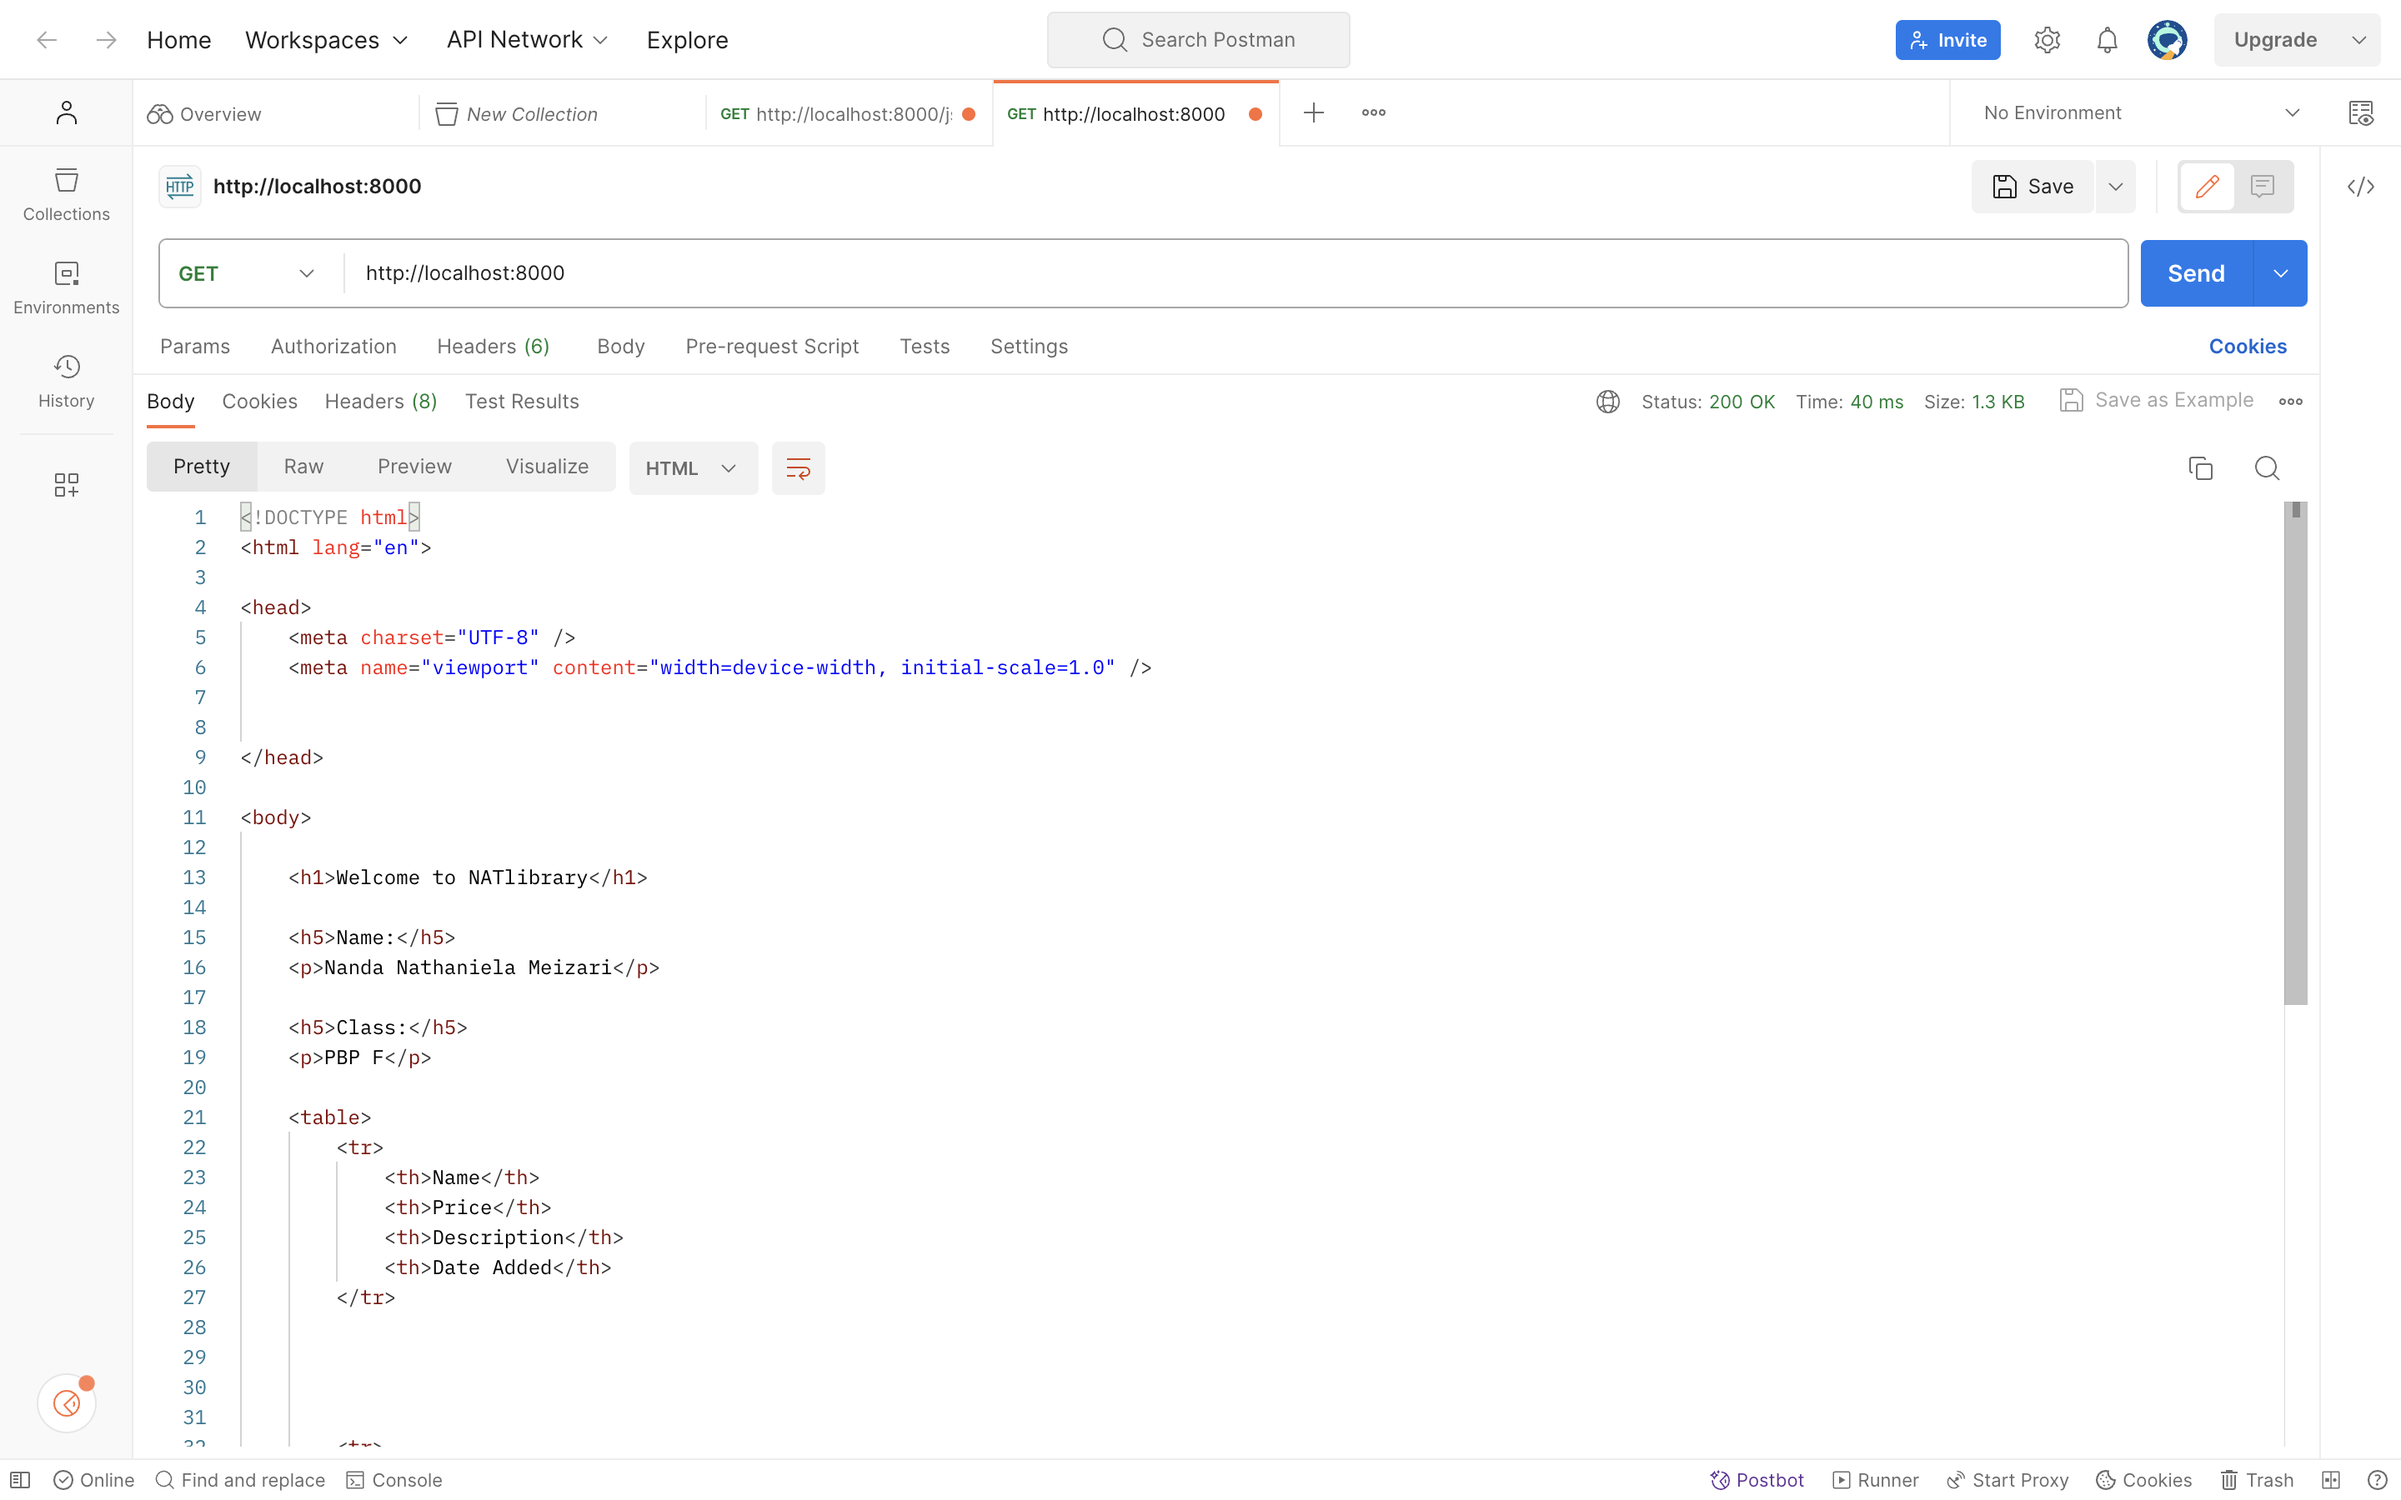
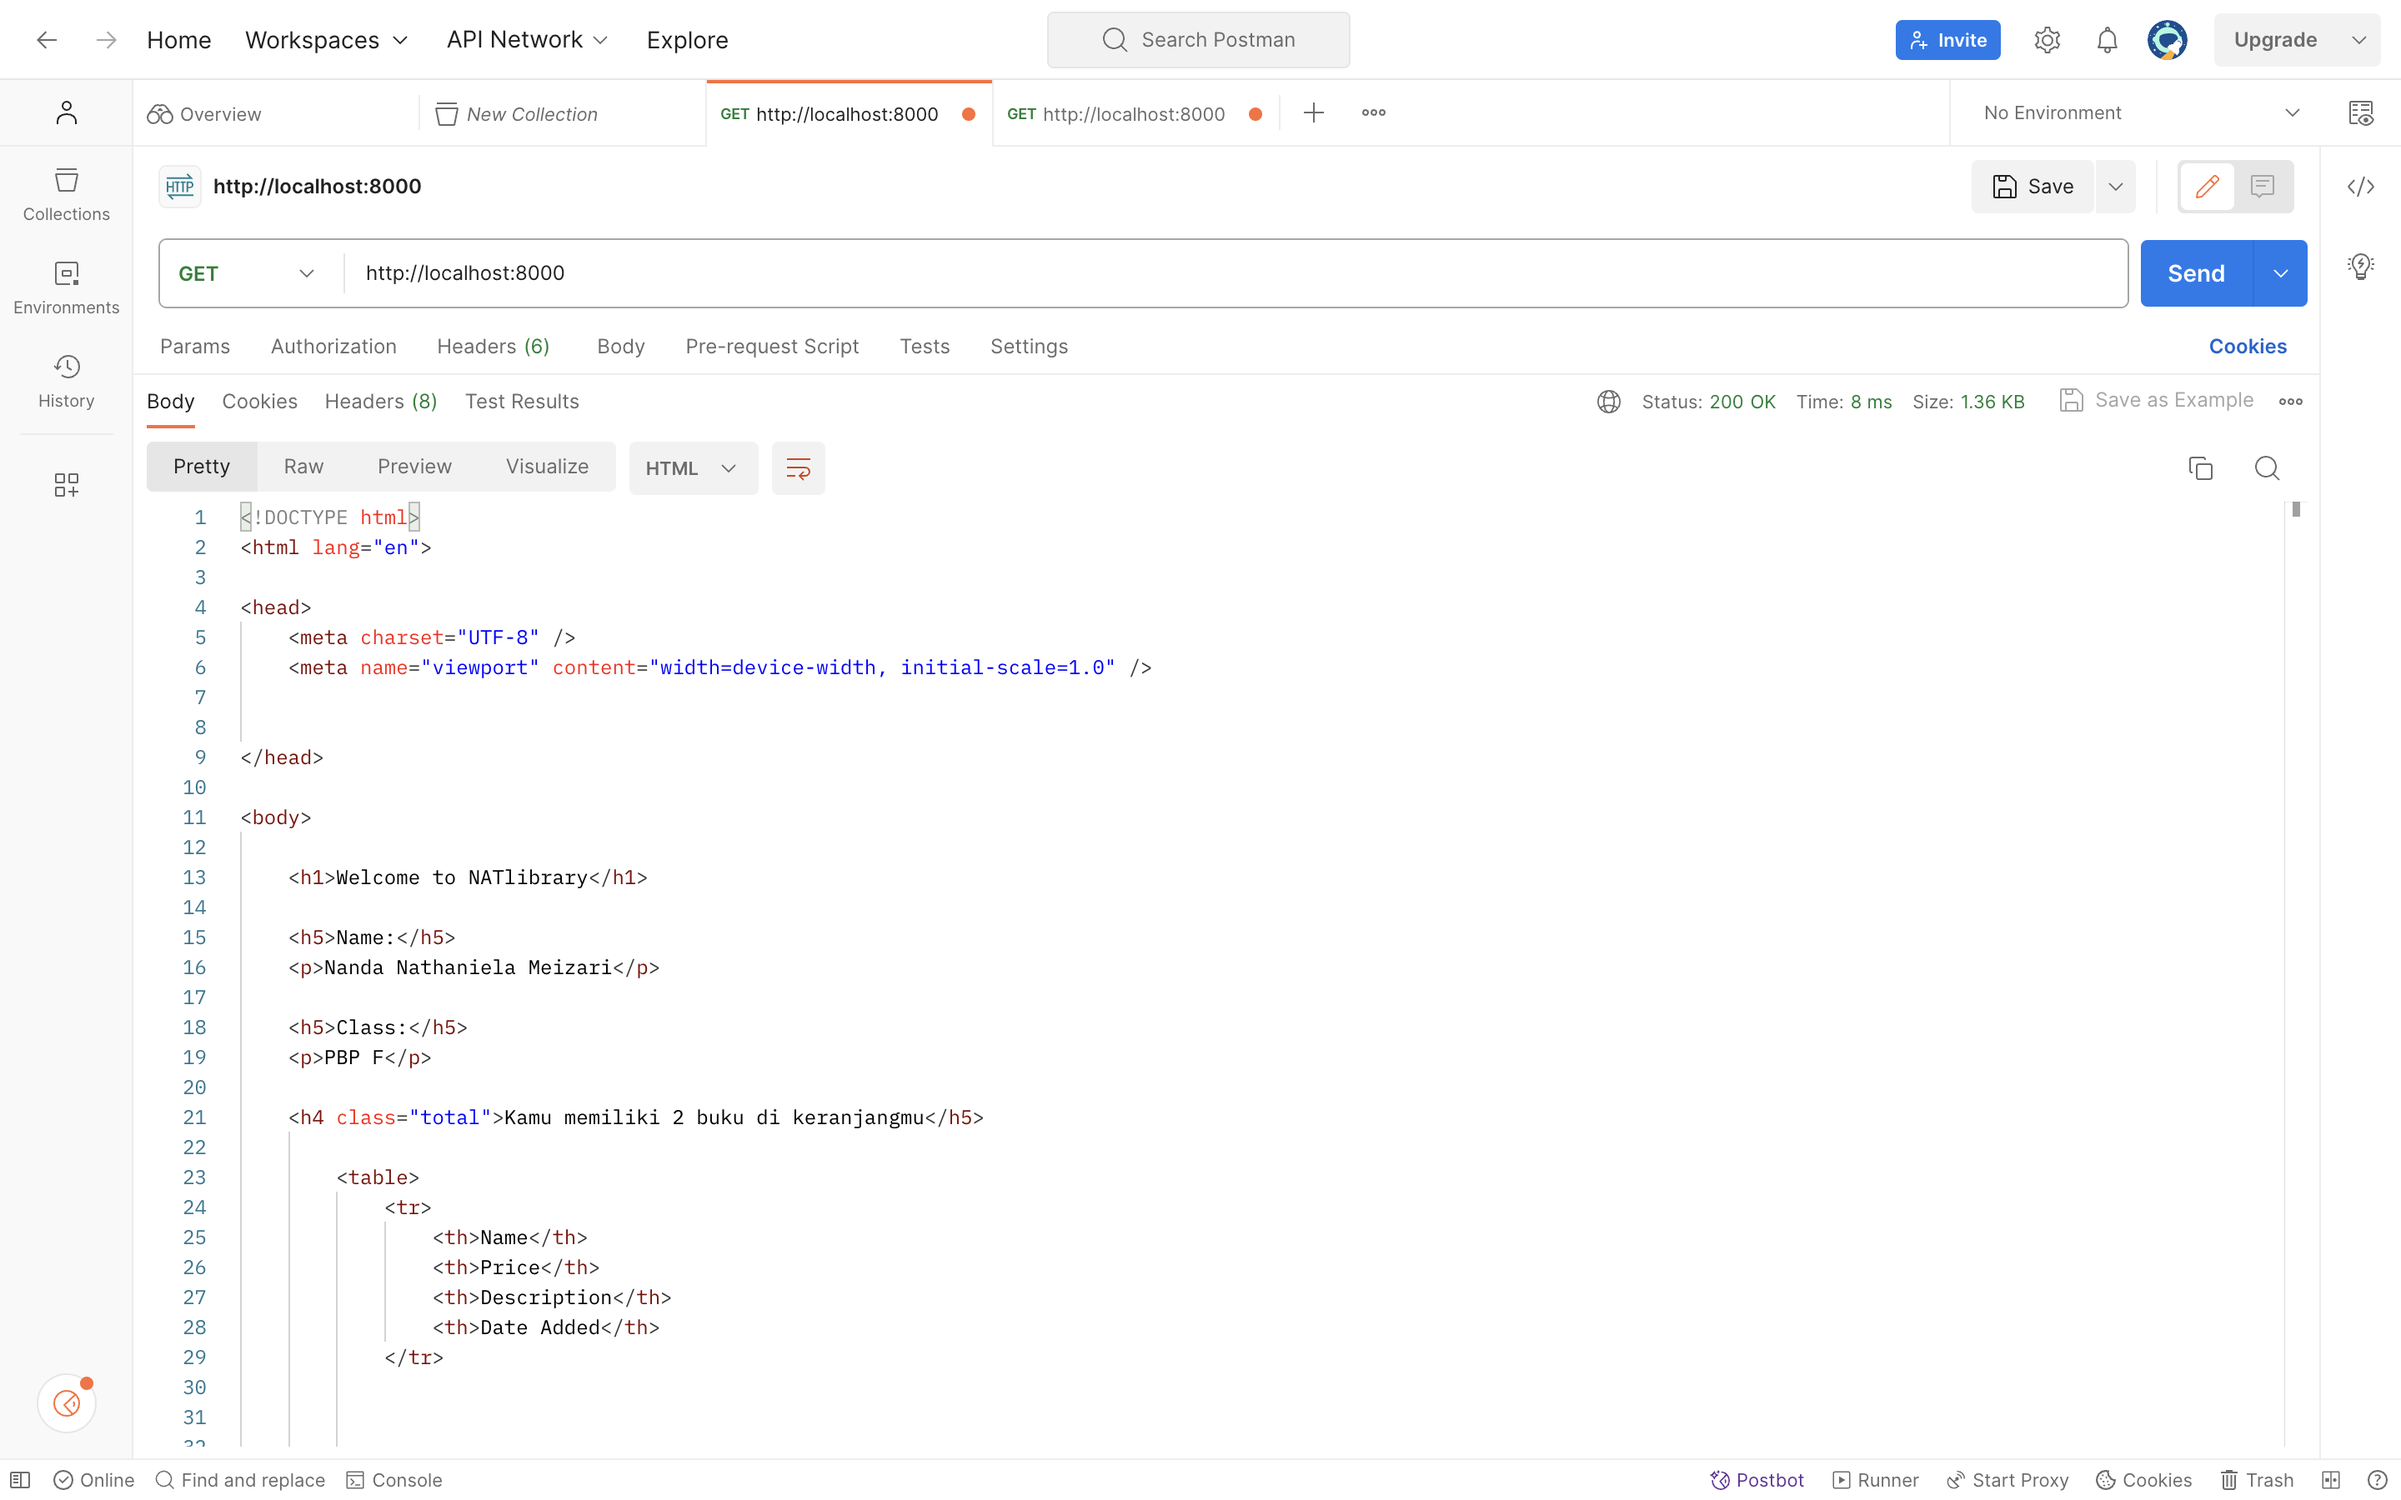
tugas 3 update

diff --git a/main/templates/main.html b/main/templates/main.html
@@ -9,6 +9,8 @@
     <h5>Class:</h5>
     <p>{{class}}</p>
 
+    <h4 class="total">Kamu memiliki {{total}} buku di keranjangmu</h5>
+
 <table>
     <tr>
         <th>Name</th>

diff --git a/main/views.py b/main/views.py
@@ -13,7 +13,8 @@ def show_main(request):
     context = {
         'name': 'Nanda Nathaniela Meizari',
         'class': 'PBP F',
-        'products': products
+        'products': products,
+        'total' : products.__len__(),
     }
 
     return render(request, "main.html", context)
